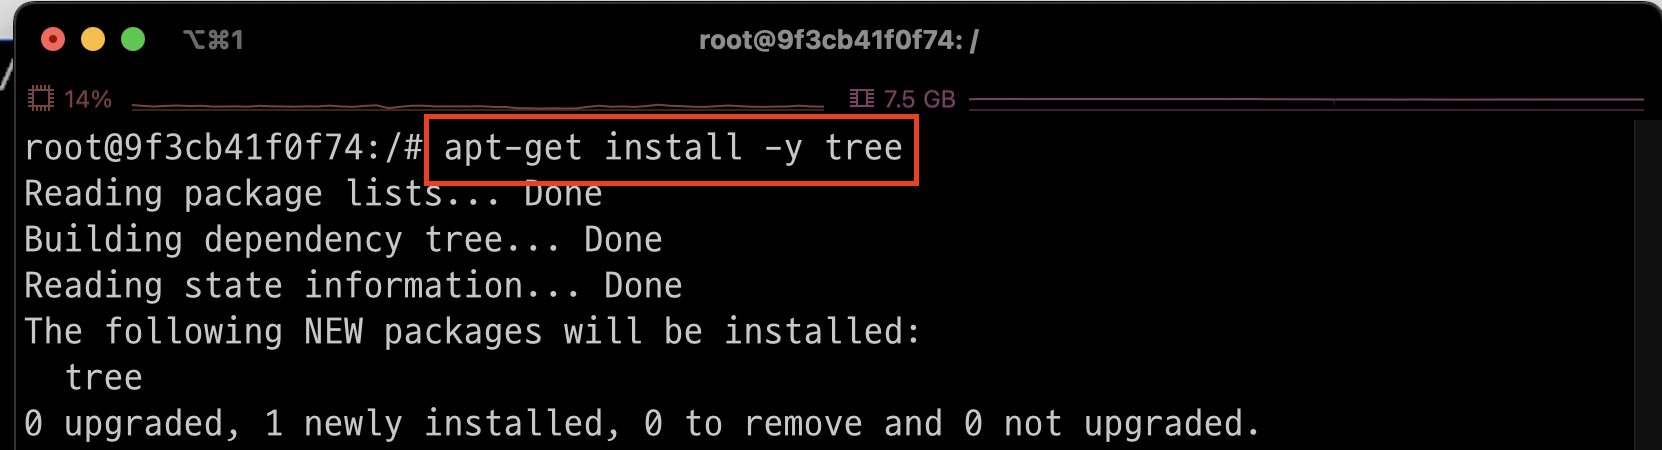
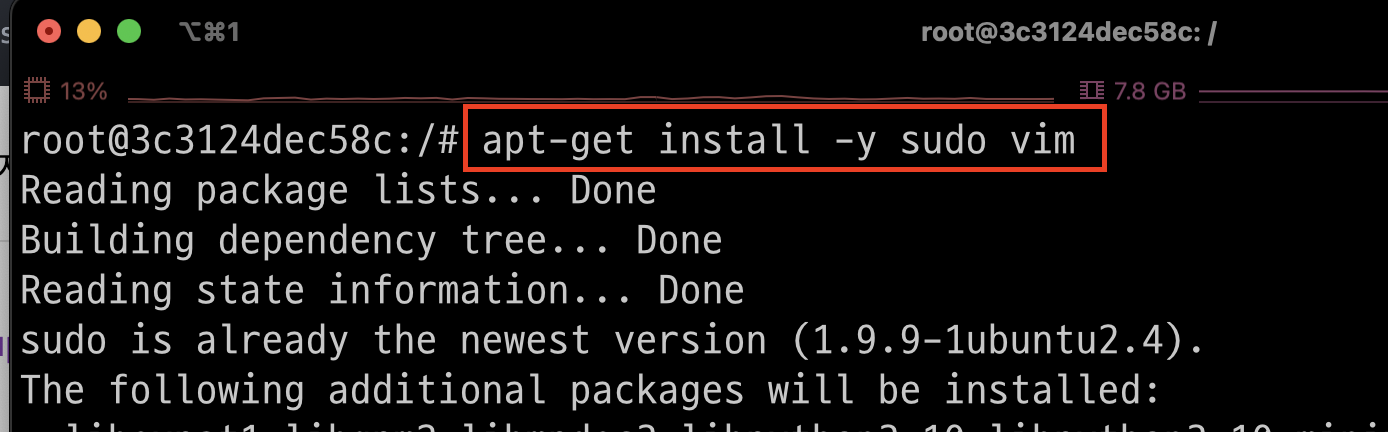
linux account

Changed region(s): [[0.0, 0.0, 1.0, 1.0], [0.4027, 0.0602, 0.5886, 0.1204], [0.8055, 0.963, 0.9294, 1.0]]

diff --git a/linux/account.md b/linux/account.md
@@ -1,0 +1,141 @@
+---
+style: |
+  img {
+    display: block;
+    float: none;
+    margin-left: auto;
+    margin-right: auto;
+  }
+marp: true
+paginate: true
+---
+# [Linux Account](https://kbs4674.tistory.com/134)
+- LINUX는 사용자 중심의 시스템으로, 사용자 계정이 있어야 접속할 수 있다.
+- root
+  - 시스템을 관리할 수 있는 관리자 권한의 계정이자 슈퍼 유저
+  - 리눅스 파일 체제의 최상위 디렉토리( / )로도 표현한다.
+- 일반 사용자 계정
+  - root가 useradd 명령어를 통해 생성한 모든 계정
+  - root와 달리 권한이 있는 파일과 디렉토리에 대해서만 읽고 쓸 수 있다.
+---
+# Linux Account 명령어
+
+---
+### 계정확인 
+```shell
+whoami
+```
+![Alt text](./img/account/image-1.png)
+
+---
+### root > 비번 생성(변경)
+- `sudo`: 사용자 계정에 root권한을 일시적으로 부여하는 방법
+- sudo 오류 발생시 다음 페이지 참고 
+```shell
+sudo passwd root
+```
+![Alt text](./img/account/image-7.png)
+
+---
+- sudo 오류 발생 > 처리 후 다시 passwd 설정 
+```shell
+apt-get install -y sudo 
+```
+![Alt text](./img/account/image-6.png)
+
+---
+### 계정 생성 
+- 명령어: adduser <생성될 계정아이디>
+```shell
+adduser student 
+```
+![bg right w:600](./img/account/image-2.png)
+
+---
+### 계정 변경 
+- 명령어: su - <계정명>
+```shell
+su - student
+pwd # student의 홈 디렉토리임 
+```
+![Alt text](./img/account/image-3.png)
+
+---
+### student > 디렉토리 및 파일 생성 
+- `test_student.txt`은 student 사용자와 그룹만 수정이 가능함 
+```shell
+touch test_student.txt
+mkdir dir_student
+ls -al # 권한 확인 
+```
+![w:800](./img/account/image-4.png)
+
+---
+### student > 파일 수정 및 읽기 
+```shell
+# 파일 수정
+echo "hello world" > test_student.txt
+# 파일 읽기 
+cat test_student.txt
+```
+![Alt text](./img/account/image-5.png)
+
+---
+### student > sudo 사용하기 
+- sudo 권한이 없다는 오류 발생 
+```shell
+sudo apt-get install python3 python-pip3
+```
+![Alt text](./img/account/image-8.png)
+
+---
+- root 계정으로 변경 
+- 명령어: su - <계정명>
+```shell
+su - root
+```
+![Alt text](./img/account/image-9.png)
+
+---
+- student 계정에 sudo 권한 부여 
+```shell
+sudo vim /etc/sudoers
+# 아래내용 추가 
+student ALL=(ALL:ALL) ALL
+```
+![bg right w:600](./img/account/image-10.png)
+
+---
+- student 계정으로 sudo 실행 
+```shell
+su - student # student 계정으로 변경 
+sudo apt-get install -y python3 python3-pip 
+```
+![Alt text](./img/account/image-11.png)
+
+---
+### ubunt 계정 조회 
+```shell
+su - root
+cut -f1 -d: /etc/passwd
+```
+![bg right w:550](./img/account/image-12.png)
+
+---
+### student 계정 삭제 
+- 명령어: sudo deluser <계정 아이디>
+```shell
+sudo deluser student
+cut -f1 -d: /etc/passwd # 결과 확인 
+```
+![bg right w:500](./img/account/image-13.png)
+
+---
+- 오류 발생 > student 계정없음 
+```shell
+su - student
+```
+![Alt text](./img/account/image-14.png)
+
+
+

diff --git a/linux/permission.md b/linux/permission.md
@@ -33,34 +33,44 @@ ls -al
 ---
 ### 문자모드 예제 
 - 파일 생성 
-
-![Alt text](./img/permission/image-7.png)
-
----
+- 생성된 파일의 허가권(Permissions): `-rw-r--r--`
+- 소유자만 읽기 쓰기가 가능하고 그룹 및 그 밖의 사용자는 읽기만 가능
 ```shell
-chmod go+rw test.txt
+touch test.txt
 ```
-![Alt text](./img/permission/image-8.png)
+![bg right w:600](./img/permission/image-7.png)
 
 ---
 ![Alt text](./img/permission/image-10.png)
 ![Alt text](./img/permission/image-11.png)
 
 ---
-### 숫자모드 예제 
-- 파일 생성 
-
-![Alt text](./img/permission/image-12.png)
+- 권한 변경 
+- `g`: group(그룹) / `o`: others(그 밖의 사용자)
+- `go+rw`: group과 others에게 r(읽기)와 w(쓰기) 권한 추가 
+```shell
+chmod go+rw test.txt
+```
+![Alt text](./img/permission/image-8.png)
 
 ---
+### 숫자모드 예제 
+- 파일 생성 
 ```shell
-chmod 777 test1.txt
+touch test1.txt
 ```
-![Alt text](./img/permission/image-13.png)
+![Alt text](./img/permission/image-12.png)
 
 ---
 ![Alt text](./img/permission/image-3.png)
 ![Alt text](./img/permission/image-5.png)
+
+---
+- 사용자/그룹/다른사용자 모두에게 읽기/쓰기/실행 권한 부여 
+```shell
+chmod 777 test1.txt
+```
+![Alt text](./img/permission/image-13.png)
 
 ---
 # 참고문서 
@@ -68,3 +78,5 @@ chmod 777 test1.txt
 - https://wlsvud84.tistory.com/9
 - https://hack-cracker.tistory.com/32
 - https://tttap.tistory.com/246 
+
+

diff --git a/linux/README.md b/linux/README.md
@@ -76,6 +76,12 @@ docker run -it --name ubuntu_test -u ubuntu ubuntu /bin/bash
 ## [Linux 기본 명령어](./basic.md)
 
 ---
+## [Linux 권한](./permission.md)
+
+---
+## [Linux 계정](./account.md)
+
+---
 ## [Vim 사용법](./vim.md) 
 - 윈도우에서는 메모장을 편집기의 기본으로 지원하는 반면, 리눅스에서는 기본 편집기로 vi 편집기를 지원한다.
 - VIM은 Vi IMproved의 약자 이다. 즉, vi에디터를 업그레이드 시킨 것이 vim에디터라고 생각하면 된다.

diff --git a/linux/basic.md b/linux/basic.md
@@ -41,8 +41,10 @@ apt-get dist-upgrade
 ---
 - 패키기/라이브러리 설치
 - 명령어: apt-get install -y <라이브러리명>
+  - `sudo`: 일반사용자에게 root 권한을 부여
+  - `vim`: 리눅스용 에디터
 ```shell
-apt-get install -y tree
+apt-get install -y sudo vim
 ```
 ![Alt text](./img/basic/image-4.png)
 
